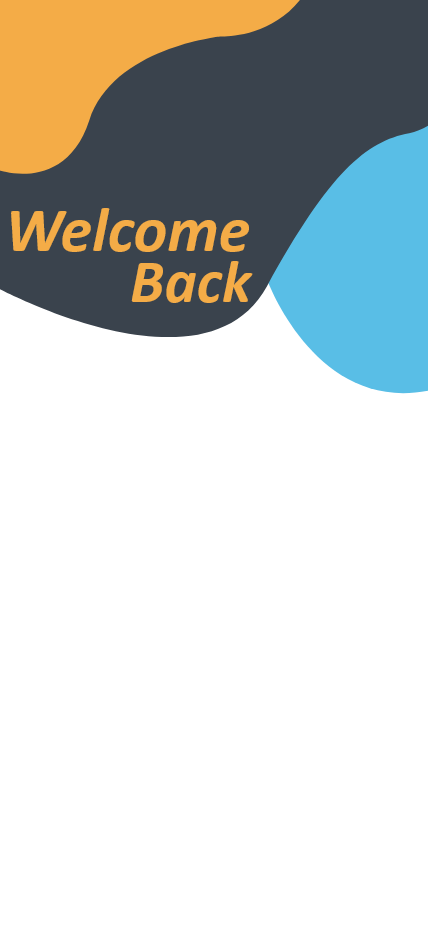
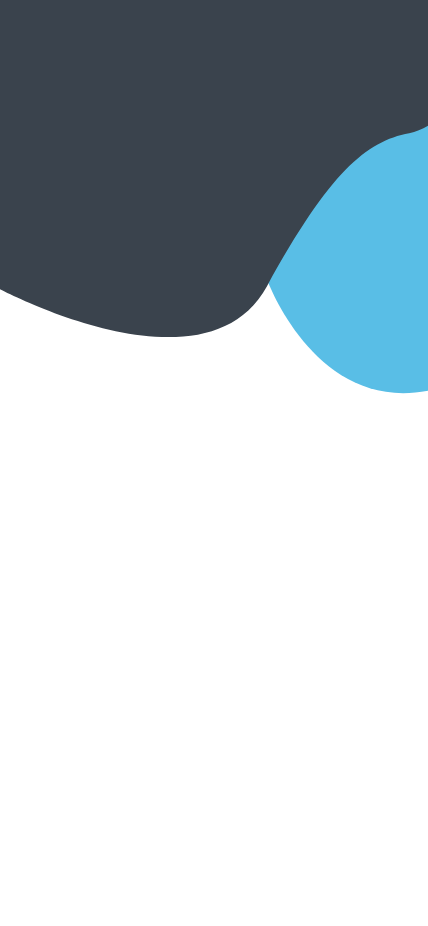
forgot password page setup

Changed region(s): [[0.0, 0.0, 0.6986, 0.3326]]

diff --git a/lib/Pages/forgotpassword.dart b/lib/Pages/forgotpassword.dart
@@ -1,35 +1,36 @@
 import 'package:firebase_auth/firebase_auth.dart';
 import 'package:flutter/material.dart';
 import 'package:flutter_easyloading/flutter_easyloading.dart';
-import 'package:service_provider/firebaseHelper.dart';
-import 'package:service_provider/routes.dart';
 
-class LoginPage extends StatefulWidget {
-  const LoginPage({super.key});
+import '../routes.dart';
+
+class forgotPassword extends StatefulWidget {
+  const forgotPassword({super.key});
+
   @override
-  State<LoginPage> createState() => _LoginPageState();
+  State<forgotPassword> createState() => _forgotPasswordState();
 }
 
-class _LoginPageState extends State<LoginPage> {
+class _forgotPasswordState extends State<forgotPassword> {
   final _emailController = TextEditingController();
-  final _passwordController = TextEditingController();
   final _formKey = GlobalKey<FormState>();
-  String _errorMsg = '';
+  String _resetMsg = '';
+
   @override
   Widget build(BuildContext context) {
     return Container(
       decoration: BoxDecoration(
           image: DecorationImage(
-        image: AssetImage("assets/login.png"),
-        fit: BoxFit.cover,
-      )),
+            image: AssetImage("assets/login.png"),
+            fit: BoxFit.cover,
+          )),
       child: Scaffold(
         backgroundColor: Colors.transparent,
         body: Form(
           key: _formKey,
           child: Stack(
             children: [
-              LoginText(),
+              ForgotPasswordText(),
               SingleChildScrollView(
                 child: Container(
                   padding: EdgeInsets.only(
@@ -42,22 +43,18 @@ class _LoginPageState extends State<LoginPage> {
                       email_field(),
                       SizedBox(
                           height: MediaQuery.of(context).size.height * 0.03),
-                      Password_field(),
-                      SizedBox(
-                        height: MediaQuery.of(context).size.height * 0.03,
-                      ),
-                      Login_text_and_Button(),
+                      Reset_text_and_Button(),
                       SizedBox(
                         height: MediaQuery.of(context).size.height * 0.13,
                         child: Text(
-                          _errorMsg,
+                          _resetMsg,
                           style: TextStyle(
                             color: Colors.red,
                           ),
                         ),
                       ),
                       Register_ask(),
-                      forgot_password(),
+                      Login_ask(),
                     ],
                   ),
                 ),
@@ -75,33 +72,35 @@ class _LoginPageState extends State<LoginPage> {
     EasyLoading.show(status: 'Logging in', dismissOnTap: false);
     try {
       final email = _emailController.text;
-      final password = _passwordController.text;
-      final status = await AuthServices.loginto(email, password);
-      if (status) {
+      await _auth.sendPasswordResetEmail(email: email).onError((error, stackTrace) {
         EasyLoading.dismiss();
-        Navigator.pushReplacementNamed(context, launcherRoute);
-      } else {
-        await _auth.signOut();
-      }
+        setState(() {
+          _resetMsg = error.toString();
+        });
+      }).whenComplete(() {
+        EasyLoading.dismiss();
+        setState(() {
+          _resetMsg= 'Password Reset link sent to email\nNote: Check Spam folder also';
+        });
+      });
     } on FirebaseAuthException catch (error) {
       EasyLoading.dismiss();
       setState(() {
-        _errorMsg = error.message.toString();
+        _resetMsg = error.message.toString();
       });
     }
   }
 
-  Container LoginText() {
+  Container ForgotPasswordText() {
     return Container(
       padding: EdgeInsets.only(
-          left: 10, top: MediaQuery.of(context).size.height * 0.15),
+          left: 10, top: MediaQuery.of(context).size.height * 0.11),
       child: Text(
-        'Welcome',
-        style: TextStyle(color: Colors.white, fontSize: 60),
+        'Reset\nPassword',
+        style: TextStyle(color: Colors.white, fontSize: 50),
       ),
     );
   }
-
 
   TextFormField email_field() {
     return TextFormField(
@@ -121,7 +120,7 @@ class _LoginPageState extends State<LoginPage> {
           if (value == null || value.isEmpty) {
             return 'Provide an email address';
           } else if (!RegExp(
-                  r"^[a-zA-Z0-9.a-zA-Z0-9.!#$%&'*+-/=?^_`{|}~]+@[a-zA-Z0-9]+\.[a-zA-Z]+")
+              r"^[a-zA-Z0-9.a-zA-Z0-9.!#$%&'*+-/=?^_`{|}~]+@[a-zA-Z0-9]+\.[a-zA-Z]+")
               .hasMatch(value)) {
             return 'Invalid email address';
           }
@@ -129,45 +128,22 @@ class _LoginPageState extends State<LoginPage> {
         });
   }
 
-  TextFormField Password_field() {
-    return TextFormField(
-      controller: _passwordController,
-      obscureText: true,
-      style: TextStyle(color: Colors.white),
-      decoration: InputDecoration(
-        prefixIcon: Icon(Icons.key,color: Colors.blueGrey.shade600,),
-        labelText: 'Password',
-        fillColor: Colors.lightBlueAccent.shade100,
-        filled: true,
-        border: OutlineInputBorder(
-          borderRadius: BorderRadius.circular(30),
-        ),
-      ),
-      validator: (value) {
-        if(value == null || value.isEmpty) {
-          return 'Provide a password';
-        }
-        return null;
-      },
-    );
-  }
-
-  Row Login_text_and_Button() {
+  Row Reset_text_and_Button() {
     return Row(
       mainAxisAlignment: MainAxisAlignment.spaceBetween,
       children: [
         Container(
           child: Text(
-            "Sign In",
+            "Reset",
             style: TextStyle(
                 color: Color(0xff4c505b),
-                fontSize: 30,
+                fontSize: 35,
                 fontWeight: FontWeight.w700),
           ),
-          padding: EdgeInsets.only(left: 20),
+          padding: EdgeInsets.only(left: 20,bottom: 10),
         ),
         Container(
-          padding: EdgeInsets.only(right: 15),
+          padding: EdgeInsets.only(right: 15,bottom: 15),
           child: CircleAvatar(
             backgroundColor: Color(0xff4c505b),
             radius: 35,
@@ -183,20 +159,10 @@ class _LoginPageState extends State<LoginPage> {
     );
   }
 
-  Row Register_ask() {
-    return Row(
-      mainAxisAlignment: MainAxisAlignment.center,
-      children: [
-        Text(
-          "Don't have an account?",
-          style: TextStyle(
-            color: Color(0xff4c505b),
-            fontSize: 14,
-          ),
-        ),
-        SizedBox(
+  SizedBox Register_ask() {
+    return SizedBox(
           height: 40,
-          width: 70,
+          width: 100,
           child: TextButton(
             onPressed: () {
               Navigator.pushReplacementNamed(context, registerRoute);
@@ -204,26 +170,25 @@ class _LoginPageState extends State<LoginPage> {
             child: Text(
               'Sign up',
               style: TextStyle(
-                fontSize: 15,
+                fontSize: 18,
                 color: Color(0xff4c505b),
                 decoration: TextDecoration.underline,
               ),
             ),
           ),
-        ),
-      ],
-    );
+        );
   }
 
-  SizedBox forgot_password() {
+  SizedBox Login_ask() {
     return SizedBox(
       height: 40,
+      width: 100,
       child: TextButton(
-        onPressed: () {Navigator.pushReplacementNamed(context, forgotPasswordRoute);},
+        onPressed: () {Navigator.pushReplacementNamed(context, loginRoute);},
         child: Text(
-          "Forgot Password?",
+          "Sign in",
           style: TextStyle(
-            fontSize: 15,
+            fontSize: 18,
             color: Color(0xff4c505b),
             decoration: TextDecoration.underline,
           ),
@@ -231,4 +196,5 @@ class _LoginPageState extends State<LoginPage> {
       ),
     );
   }
+
 }

diff --git a/lib/routes.dart b/lib/routes.dart
@@ -1,3 +1,4 @@
+  import 'package:service_provider/Pages/forgotpassword.dart';
   import 'package:service_provider/Pages/launcher.dart';
   import 'package:service_provider/Pages/login.dart';
   import 'package:service_provider/Pages/Register.dart';
@@ -7,10 +8,12 @@
   const registerRoute = '/register';
   const launcherRoute = '/launcher';
   const userHomePageRoute = '/userHome';
+  const forgotPasswordRoute = '/forgotpass';
 
   var appRoutes={
     loginRoute: (context)=> const LoginPage(),
     registerRoute: (context)=> const RegisterPage(),
     launcherRoute: (context)=> const launcherPage(),
     userHomePageRoute: (context)=> const userHomePage(),
+    forgotPasswordRoute: (context)=> const forgotPassword(),
   };
